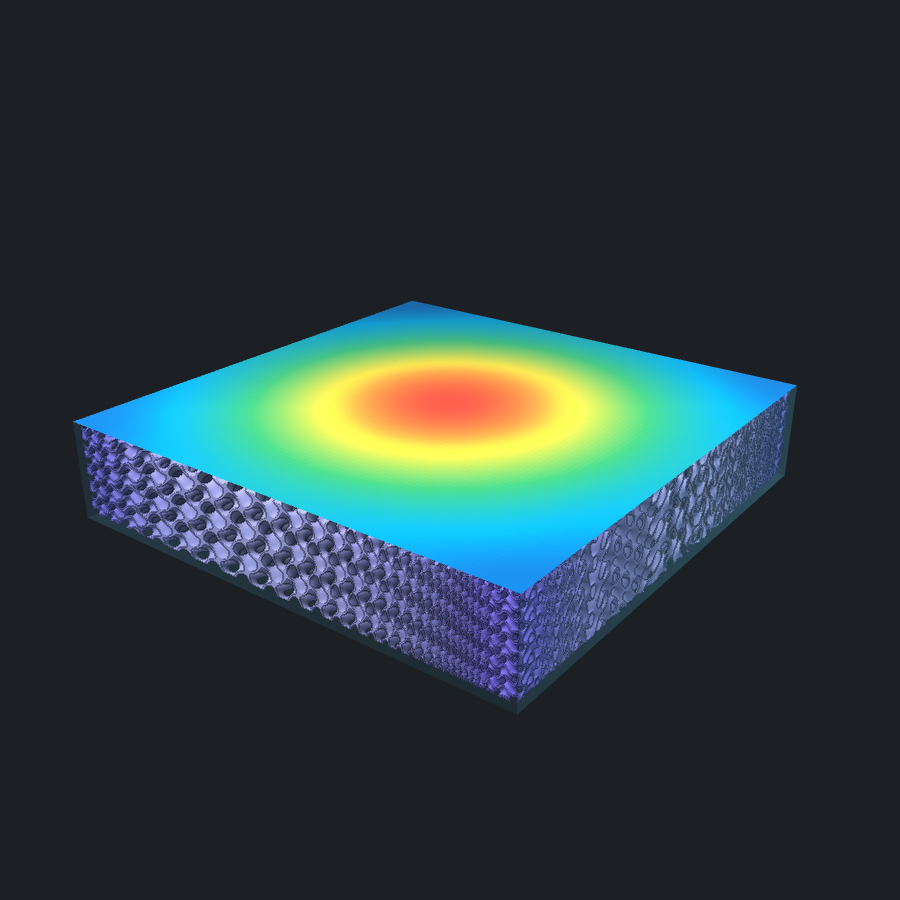
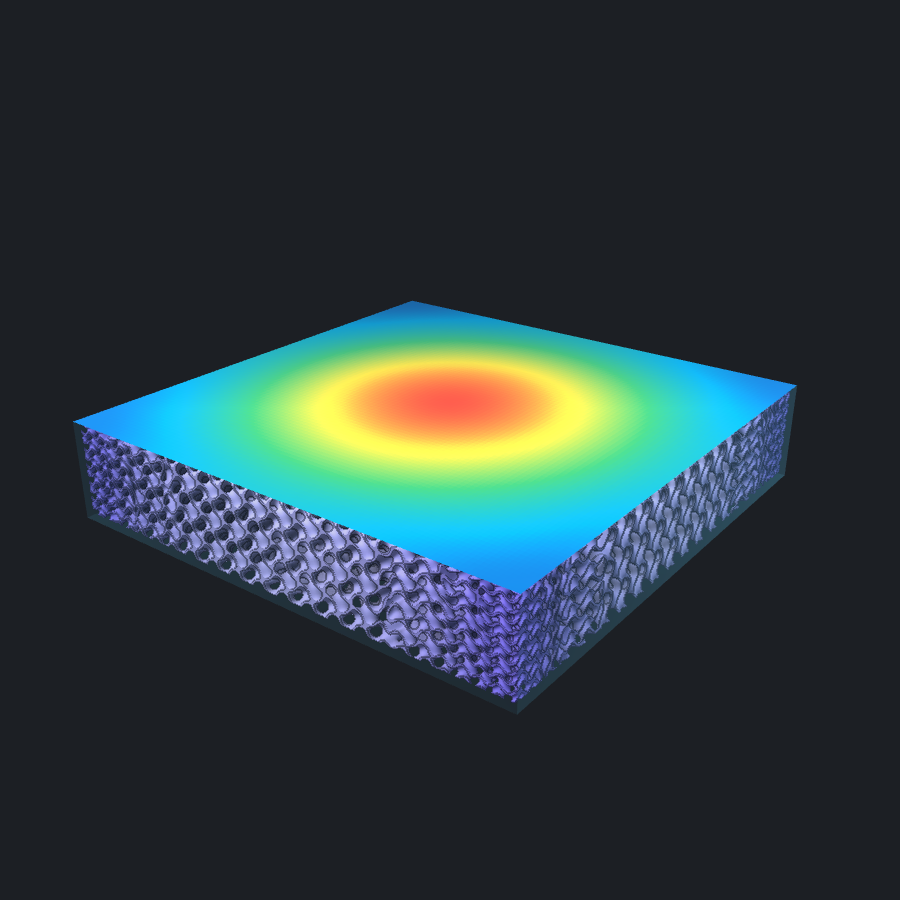
A1 verifier round: X-ray evidence redrawn on the ladder gyroid and the joined seam
FlexibleLatticeEvidenceProbe also counts walls standing OUTSIDE the no-wall silhouette
(above the dented map's edge, against the background — the interior poke-through count
could not see them) and draws the skin-off pad at half squish too.

Redrawn (offscreen frames of the shipping renderer, 900 px, MSAA 4x):
- inpass_xray_pad_gyroid_{rest,half,full}: the gyroid's cells now match at both ends of
  each side face (the x ≈ 100 end had been ~3x finer). Poke-through 0 px, 0 outside.
- inpass_xray_split_pad_10kg_25kg_{rest,full}: the two maps meet along the cut (the
  wedge-shaped cracks at both ends are gone; poke-through 34 → 0 px); the front face's
  step in density is a rung change, not a smeared band.
- inpass_xray_pad_gyroid_skin_off_{half,full} (half is new): the open ruling — with the
  top face's skin off, wall tops speckle the opaque map (17917 / 108001 = 16.6 % of its
  interior px at half, 17532 / 108712 = 16.1 % at full) and 5 / 32 px stand above the
  map's back edge. The squish model is unchanged, per instruction.
- honeycomb frames are byte-identical (the honeycomb is not graded).

Changed region(s): [[0.0933, 0.4356, 0.8711, 0.7778]]

diff --git a/app/TopOptKit/Tests/TopOptFlowsTests/FlexibleLatticeEvidenceProbe.swift b/app/TopOptKit/Tests/TopOptFlowsTests/FlexibleLatticeEvidenceProbe.swift
@@ -160,9 +160,18 @@ final class FlexibleLatticeEvidenceProbe: XCTestCase {
                 let i = q * 4
                 if a[i] != c[i] || a[i + 1] != c[i + 1] || a[i + 2] != c[i + 2] { poke += 1 }
             } }
-            print(String(format: "FLEX-EVIDENCE %@ %@: flexScale %.2f (× %.0f · %.1f), lattice covers %d px (%.1f %%); poke-through %d of %d interior map px (%.2f %%)",
+            // ★ AND OUTSIDE THE PART: pixels that are background in the no-wall reference but
+            // not in the frame — walls standing above the dented map's edge, against the
+            // background (the interior count above cannot see those)
+            func isBG(_ f: [UInt8], _ q: Int) -> Bool {
+                let i = q * 4
+                return abs(Int(f[i]) - Int(bb)) <= 1 && abs(Int(f[i + 1]) - Int(bgG)) <= 1 && abs(Int(f[i + 2]) - Int(br)) <= 1
+            }
+            var above = 0
+            for q in 0..<(n * n) where isBG(c, q) && !isBG(a, q) { above += 1 }
+            print(String(format: "FLEX-EVIDENCE %@ %@: flexScale %.2f (× %.0f · %.1f), lattice covers %d px (%.1f %%); poke-through %d of %d interior map px (%.2f %%); %d px outside the no-wall silhouette",
                          name, label, p.shown.exaggeration * amp, p.shown.exaggeration, amp, mask.covered,
-                         100 * mask.coveredFraction, poke, interior, interior > 0 ? 100 * Double(poke) / Double(interior) : 0))
+                         100 * mask.coveredFraction, poke, interior, interior > 0 ? 100 * Double(poke) / Double(interior) : 0, above))
             XCTAssertGreaterThan(mask.covered, n * n / 100, "\(name) \(label): the lattice must draw")
             mr.applyFlexibleLattice(FlexibleLatticePreview.inputs(xray: true, lattice: p.lattice, building: false), device: device)
         }
@@ -209,7 +218,7 @@ final class FlexibleLatticeEvidenceProbe: XCTestCase {
                 let po = Self.page(part: part, faces: [Face(key: key, stack: st, design: d, geometry: geo,
                                                             overlayFace: face.overlayFace, settings: off)],
                                    inputs: offInputs, topology: topo, generation: 20)
-                try render(po, device: device, name: "pad_gyroid_skin_off", amplitudes: [("full", 1)])
+                try render(po, device: device, name: "pad_gyroid_skin_off", amplitudes: [("half", 0.5), ("full", 1)])
             }
         }
 
